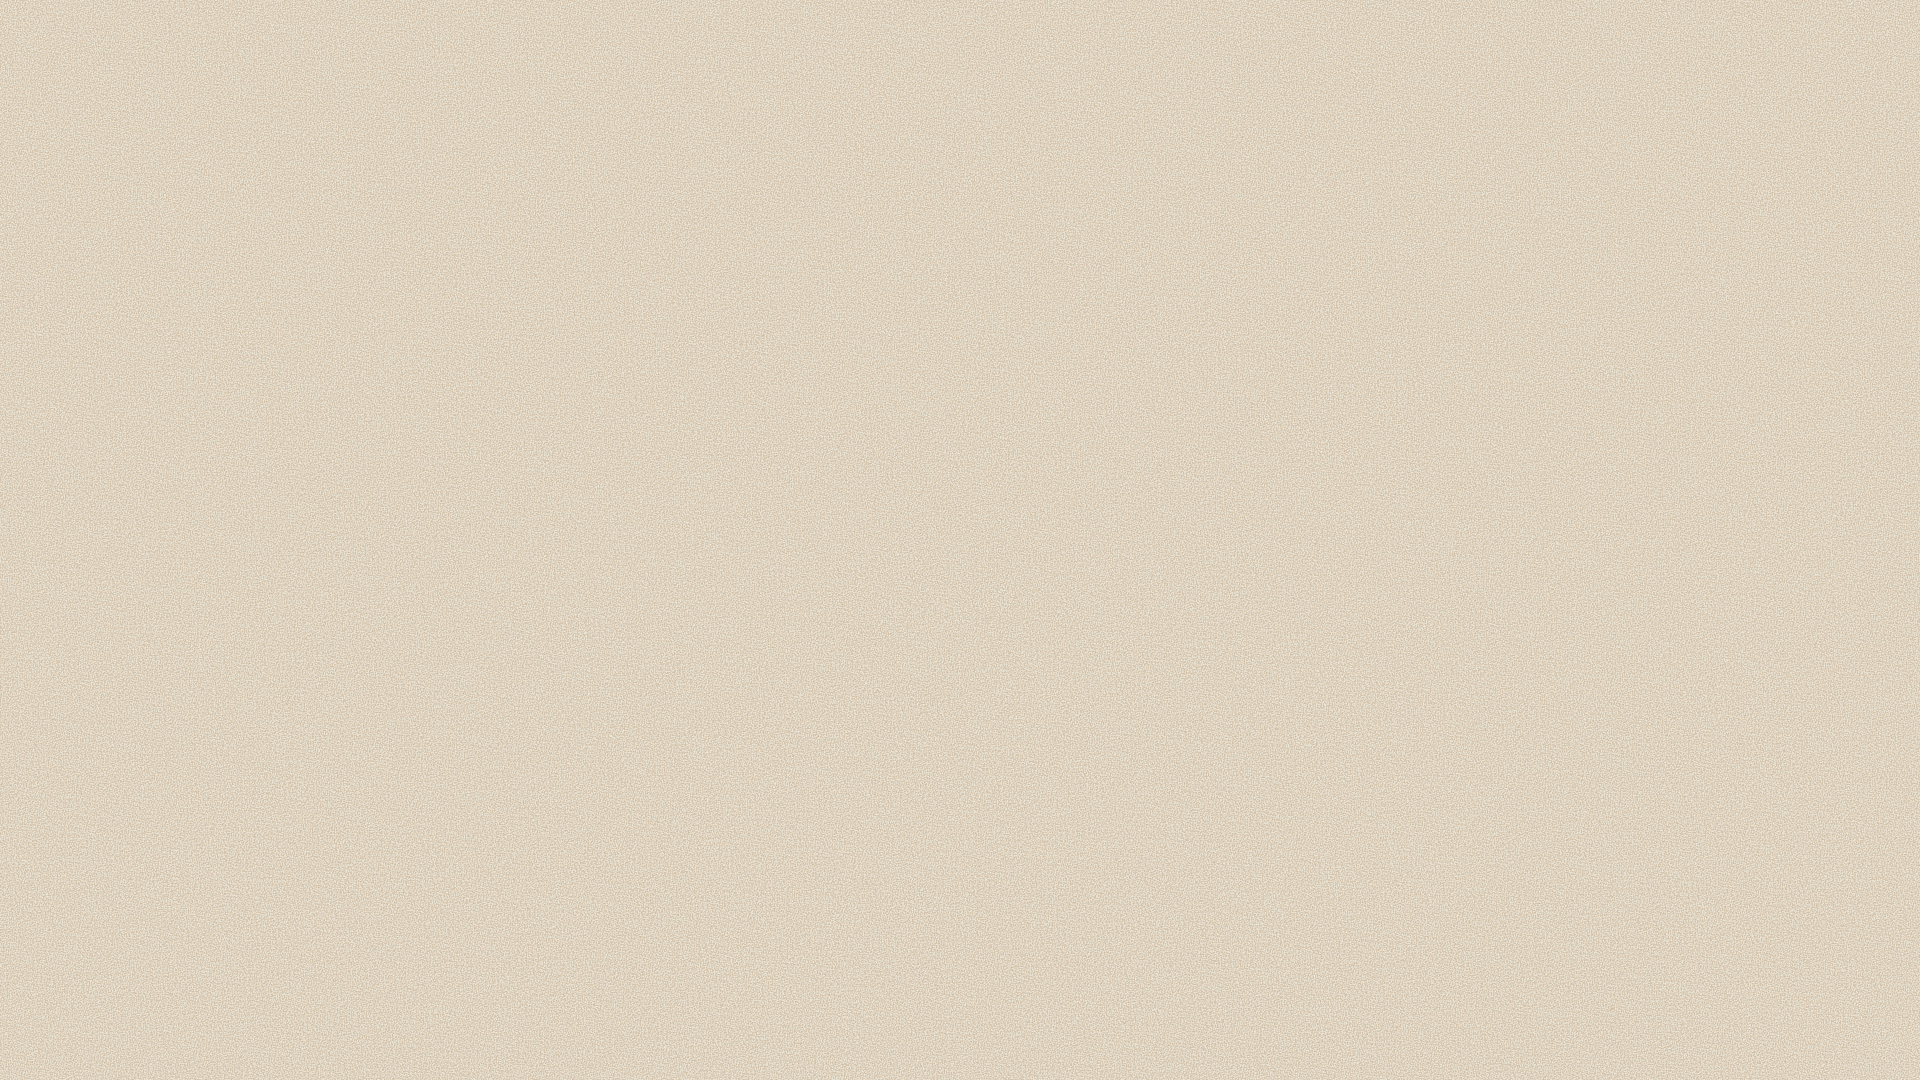
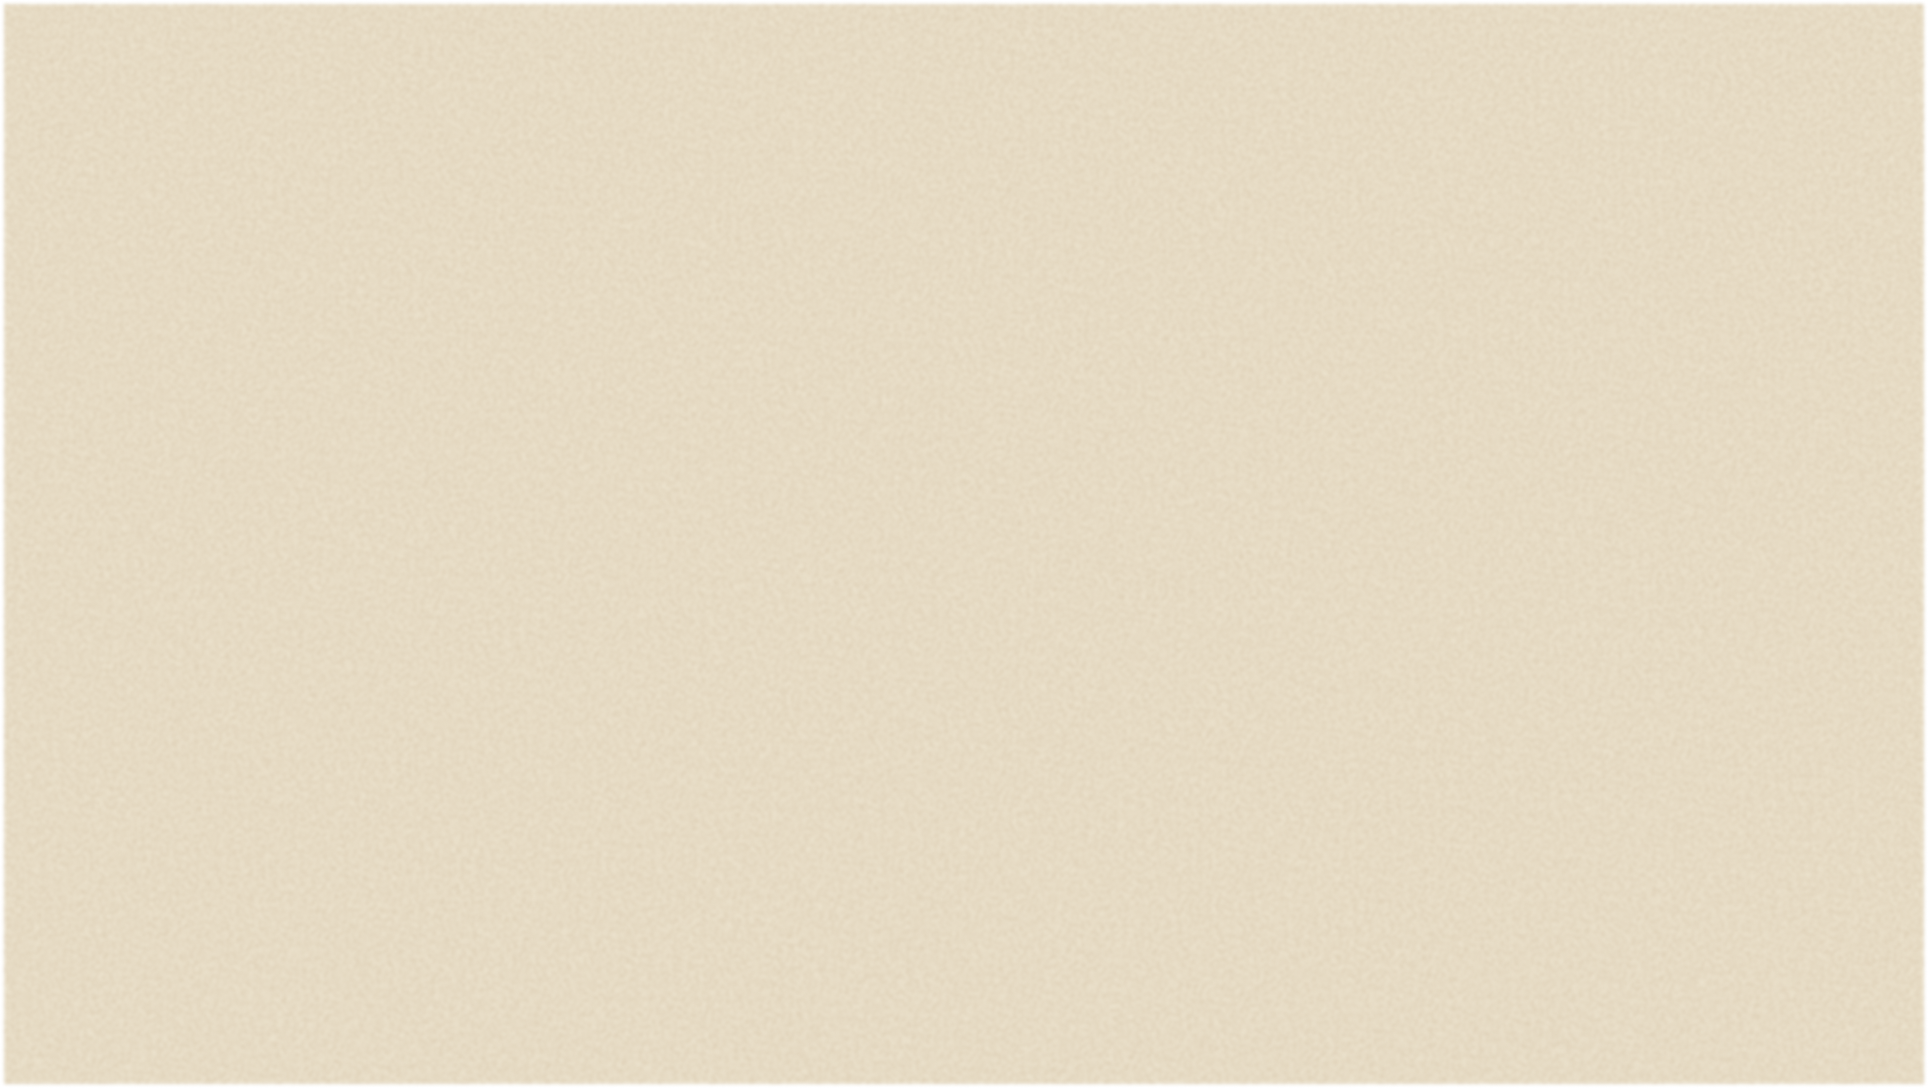
Update TV texture and header position

Changed region(s): [[0.0, 0.0, 1.0, 1.0]]

diff --git a/app/globals.css b/app/globals.css
@@ -143,7 +143,7 @@ h3 { margin-bottom: 0; font-size: 15px; line-height: 1.3; }
 .tv-menu-card { position: absolute; top: 100px; width: 575.5px; height: 910px; overflow: visible; border: 2px solid var(--orange); border-radius: 56px; background: var(--card); box-shadow: 12px 12px 0 var(--orange); padding: 86px 30px; }
 .tv-main-card { left: 70px; }
 .tv-heat-card { left: 692.5px; }
-.tv-card-title { position: absolute; z-index: 2; top: -23px; left: 41px; width: 358px; height: 84px; display: grid; place-items: center; border-radius: 40px; background: var(--orange); color: var(--card); box-shadow: 4px 4px 0 var(--deep-orange); font-family: var(--font-tilt), sans-serif; font-size: 48px; line-height: 1; }
+.tv-card-title { position: absolute; z-index: 2; top: -28px; left: 41px; width: 358px; height: 84px; display: grid; place-items: center; border-radius: 40px; background: var(--orange); color: var(--card); box-shadow: 4px 4px 0 var(--deep-orange); font-family: var(--font-tilt), sans-serif; font-size: 48px; line-height: 1; }
 .tv-menu-list { width: 100%; height: 734px; overflow: hidden; display: flex; flex-direction: column; }
 .tv-menu-row { min-height: 64px; flex: 0 0 auto; display: flex; align-items: center; gap: 12px; border-bottom: 2px solid var(--orange); padding: 8px 12px; font-size: 34px; line-height: 1.36; letter-spacing: -.34px; }
 .tv-menu-row:last-child { border-bottom: 0; }
